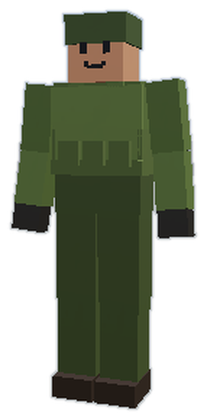
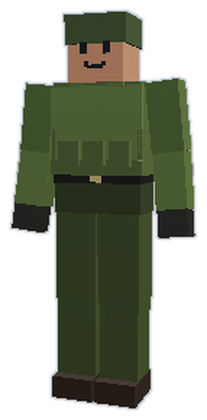
Tamanho do tronco de volta; cintura com outro tom e cinto para separar tronco e pernas
- Desfeita a mudança de proporção (o tamanho de antes estava certo)
- A cintura (parte de baixo do tronco, cor da calça) fica num tom mais escuro que as pernas
  (calça muito escura: um pouco mais clara) e ganha um cinto com fivela em cima, onde a camisa
  acaba: dá para ver onde o tronco termina e as pernas começam
- Retratos das roupas refeitos
- Versão 0.19

Claude-Session: https://claude.ai/code/session_012EZ5KKTFERXFdQTAkopxx1

Changed region(s): [[0.2609, 0.4024, 0.7536, 0.4643]]

diff --git a/motor/procgen/Character.cpp b/motor/procgen/Character.cpp
@@ -387,7 +387,17 @@ static void buildBlockBody(const CharacterParams& p, MeshBuilder& b, float H, fl
     const float tw = (sx - 0.05f * H) * 2.f, td = 0.12f * H;    // tronco: largura e profundidade
     const float waist = thighY, chestTop = 0.84f * H;
     // ---- tronco: cintura (calça), barriga e peito (camisa)
-    part(CJ_Hips, p.pants, {0, (waist + 0.6f * H) * 0.5f, 0}, {tw, 0.6f * H - waist + 0.002f * H, td});
+    // cintura num tom mais escuro que as pernas (dá para ver onde o tronco acaba e as pernas começam) e cinto em cima
+    // (calça muito escura: a cintura fica um pouco mais clara, senão não aparece a diferença)
+    const float lum = 0.2126f * p.pants.r + 0.7152f * p.pants.g + 0.0722f * p.pants.b;  // cores lineares
+    const glm::vec4 cintura = lum < 0.02f ? glm::vec4(glm::vec3(p.pants) + glm::vec3(0.035f), 1.f)
+                                          : glm::vec4(glm::vec3(p.pants) * 0.68f, 1.f);
+    part(CJ_Hips, cintura, {0, (waist + 0.6f * H) * 0.5f, 0}, {tw, 0.6f * H - waist + 0.002f * H, td});
+    {
+        const float ec = 0.003f * H;
+        part(CJ_Hips, srgb(30, 25, 22), {0, 0.59f * H, 0}, {tw + 2.f * ec, 0.022f * H, td + 2.f * ec});                 // cinto
+        part(CJ_Hips, srgb(190, 170, 110), {0, 0.59f * H, td / 2 + 1.5f * ec}, {0.03f * H, 0.016f * H, 0.004f * H});  // fivela
+    }
     part(CJ_Spine, p.shirt, {0, 0.64f * H, 0}, {tw, 0.08f * H, td});
     part(CJ_Chest, p.shirt, {0, (0.68f * H + chestTop) * 0.5f, 0}, {tw, chestTop - 0.68f * H, td});
     // estampas da camisa (um pouco por fora do tronco, para não piscar)
